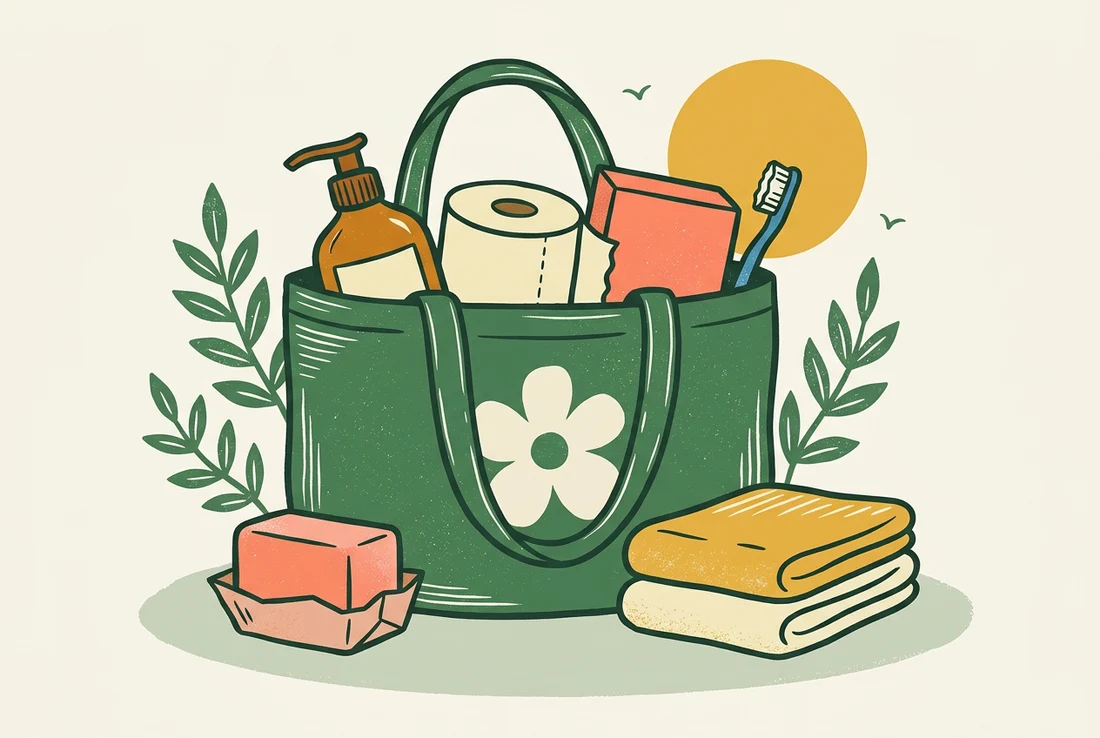
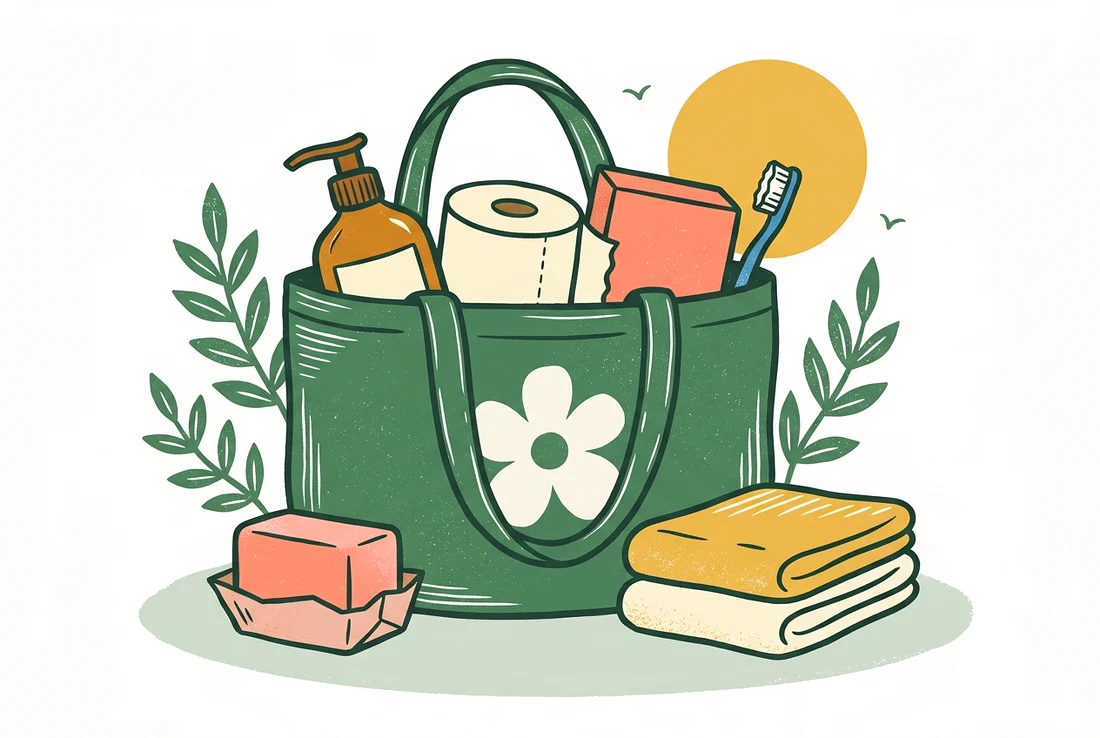
Add IRS guidance for holiday donors

diff --git a/app/globals.css b/app/globals.css
@@ -1,3 +1,4 @@
 @import 'tailwindcss';
+.taxguide{border-block:1px solid var(--border);padding:15px 0;font-size:15px;line-height:1.55}.taxguide summary{font-weight:bold;cursor:pointer}.taxguide p,.taxguide li{margin-top:10px}.taxguide ol{list-style:decimal;padding-left:20px}.taxguide a{text-decoration:underline;text-underline-offset:3px}
 .giving{background:#f9e6d2;border-bottom:1px solid #e2c9b3}.giftrow{display:flex;align-items:center;gap:17px;padding:14px 0}.giftrow>svg{color:#934d26}.giftrow>div{display:flex;align-items:center;gap:17px}.giftrow .kicker{color:#864b2b;font-size:10px;white-space:nowrap}.giftrow p{font-size:16px;font-weight:550;letter-spacing:-.3px}.giftrow button{display:flex;align-items:center;gap:9px;margin-left:auto;white-space:nowrap;font-size:14px;font-weight:bold;text-decoration:underline;text-underline-offset:4px}.givinglabel{display:block;font-size:14px;font-weight:bold;margin-bottom:7px}#need{width:100%;padding:12px;border-radius:6px;border:1px solid var(--border);background:#f4f5e9;margin-bottom:18px}.donateactions{display:flex;gap:18px;flex-wrap:wrap}.donateactions a:first-child{background:var(--ink);color:white;padding:10px 14px;border-radius:5px;text-decoration:none}@media(max-width:800px){.giftrow>div{display:block}.giftrow{gap:10px}.giftrow p{font-size:14px}}@media(max-width:480px){.giftrow>svg{display:none}.giftrow p{max-width:210px}.giftrow button{font-size:12px}}
 :root{--ink:#203f32;--paper:#faf8ef;--muted:#505b52;--border:#d5d7c9;--orange:#df854b;--white:#fffef9;color-scheme:light}*{box-sizing:border-box}body{margin:0;color:var(--ink);background:var(--white);font-family:Arial,Helvetica,sans-serif}a{color:inherit;text-decoration:none}button{cursor:pointer}a:focus-visible,button:focus-visible,input:focus-visible{outline:3px solid #ab5a25;outline-offset:4px}.wrap{max-width:1328px;width:89%;margin:auto}header{background:var(--paper);border-bottom:1px solid var(--border)}.bar{display:flex;align-items:center;gap:40px;height:78px}.brand,.helpline,nav,.eyebrow,.kicker,.primary,.zip,.cardlink,.sectionhead button,.more a,.result a,.localresult a{display:inline-flex;align-items:center}.brand{gap:11px;font-size:23px;font-weight:750;letter-spacing:-1.2px}.mark{display:grid;place-items:center;background:var(--ink);color:var(--paper);height:39px;width:39px;border-radius:11px}nav{gap:32px;margin-left:auto;font-size:14px;font-weight:550}nav a:hover,.more a:hover,.sectionhead button:hover{text-decoration:underline}.helpline{border:1px solid var(--ink);padding:9px 16px;border-radius:7px;gap:8px;font-size:14px;font-weight:bold}.hero{background:var(--paper);border-bottom:1px solid var(--border);overflow:hidden}.herogrid{display:grid;grid-template-columns:1.08fr 1fr;align-items:center;gap:10px;padding:54px 0 57px}.eyebrow,.kicker{font-weight:750;font-size:10px;letter-spacing:1.7px;gap:8px}.eyebrow{padding:7px 11px;border-radius:5px;background:#e8ecdd;letter-spacing:1.4px}.herocopy{position:relative;z-index:1}h1{font-size:clamp(50px,5.28vw,80px);font-weight:700;letter-spacing:-.065em;line-height:1.015;margin:22px 0 19px}.herocopy>p{font-size:18px;line-height:1.55;max-width:498px;color:var(--muted)}form{display:flex;gap:9px;margin-top:28px}.zip{gap:10px;border:1px solid #acb4a6;background:#fffef9;border-radius:7px;padding:0 13px;color:#647063;width:min(54%,246px)}input{min-width:0;width:100%;height:49px;color:var(--ink);font-size:15px}input::placeholder{color:#657064}button.primary{border-radius:7px;color:var(--white);background:var(--ink);padding:0 20px;gap:14px;font-size:14px;font-weight:600}.primary:hover{background:#355b42}.heroart{mix-blend-mode:multiply;margin:0 -3% 0 -1%}.heroart img{width:100%;height:auto;mask-image:linear-gradient(to right,transparent,black 4%,black 96%,transparent),linear-gradient(to bottom,transparent,black 4%,black 96%,transparent);mask-composite:intersect}.directory{padding:40px 0 46px}.kicker i{width:24px;height:2px;background:var(--orange)}.sectionhead{display:flex;align-items:center;justify-content:space-between;margin:8px 0 24px}h2{font-weight:670;font-size:clamp(29px,2.7vw,42px);line-height:1.12;letter-spacing:-.055em}.sectionhead button,.more a,.result a,.localresult a{gap:8px;font-weight:600;font-size:14px}.cards{display:grid;grid-template-columns:repeat(4,1fr);gap:17px}.category{text-align:left;border:1px solid #bdc9b8;border-radius:12px;padding:22px 22px 20px;display:flex;align-items:flex-start;flex-direction:column;transition:transform .16s,box-shadow .16s}.category:hover{transform:translateY(-3px);box-shadow:0 4px 0 #203f3215}.tone0{background:#ecf1e5}.tone1{background:#f8eadd;border-color:#e2c6ac}.tone2{background:#eaf0f4;border-color:#c1d0d7}.tone3{background:#f7efda;border-color:#ddcfaa}.category img{width:76px;height:65px;object-fit:contain;mix-blend-mode:multiply;margin-bottom:16px}.category h3,.result h3{font-size:22px;font-weight:650;line-height:1.18;letter-spacing:-.9px}.category p,.intro,.result p,.localresult p,.more p{font-size:15px;line-height:1.5;color:var(--muted);margin:9px 0 20px}.cardlink{margin-top:auto;gap:7px;font-weight:650;font-size:13px}.more{display:grid;grid-template-columns:1fr 1fr;border-top:1px solid var(--border);padding:42px 0;gap:8%}.more h2{margin-top:12px;font-size:28px}.more a,.result a,.localresult a{text-decoration:underline;text-underline-offset:4px}footer{border-top:1px solid var(--border);padding:22px 0;display:flex;justify-content:space-between;font-weight:650}footer span{font-weight:400;font-size:13px}dialog{position:fixed;inset:0;margin:auto;width:min(580px,92%);max-height:85vh;background:var(--white);color:var(--ink);border:1px solid var(--border);border-radius:14px;box-shadow:0 12px 70px #172a2333}dialog::backdrop{background:#14282088}body:has(dialog[open]){overflow:hidden}.dialoginner{padding:34px;position:relative}.dialoginner h2{margin-top:12px}.close{position:absolute;right:17px;top:17px;border:1px solid var(--border);padding:7px;border-radius:50%}.result{border-top:1px solid var(--border);padding:18px 0}.result h3{margin-top:5px}.result p,.localresult p{margin-bottom:10px}.localresult{display:flex;gap:14px;background:#ebefdf;padding:18px;border-radius:8px;margin-top:18px}.localresult svg{flex-shrink:0}@media(min-width:1450px){.herogrid{padding:68px 0}.category{padding:26px}}@media(max-width:900px){.wrap{width:91%}.bar{gap:18px}nav{gap:18px}.herogrid{grid-template-columns:1.15fr 1fr;gap:0}.herocopy>p{font-size:16px}.cards{grid-template-columns:repeat(2,1fr)}h1{font-size:clamp(43px,6vw,57px)}form{gap:7px}button.primary{padding:0 12px;gap:6px}}@media(max-width:650px){.bar{height:auto;padding:14px 0 10px;flex-wrap:wrap;justify-content:space-between;gap:12px}.brand{font-size:21px}.mark{height:33px;width:33px}nav{order:3;width:100%;justify-content:center;gap:34px;font-size:13px;border-top:1px solid var(--border);padding-top:10px}.helpline{font-size:13px}.herogrid{grid-template-columns:1fr;padding:32px 0 17px;gap:14px}.heroart{width:85%;max-width:350px;margin:auto}.herocopy>p{max-width:450px}h1{font-size:clamp(43px,10.5vw,64px);margin:16px 0 13px}form{margin-top:19px}.zip{flex:1}.directory{padding-top:27px}.sectionhead{gap:12px;margin-bottom:17px}.sectionhead h2{font-size:27px}.sectionhead button{font-size:12px;gap:3px}.cards{gap:10px}.category{padding:16px 13px}.category img{width:64px;height:55px}.category h3{font-size:19px}.category p{font-size:14px}.cardlink{font-size:12px}.more{grid-template-columns:1fr;gap:30px}.dialoginner{padding:25px}.more h2{font-size:25px}footer{gap:15px;align-items:center}footer span{max-width:150px;text-align:right}}

diff --git a/components/holiday-giving.tsx b/components/holiday-giving.tsx
@@ -8,4 +8,4 @@ const giving = [
  ['Giving the Basics','Laundry soap and paper goods','https://givingthebasics.org/donate-kc/','https://givingthebasics.org/product-donations/'],
  ['Feeding Pets of the Homeless','Pet food and supplies','https://petsofthehomeless.org/?form=donate2026','https://petsofthehomeless.org/get-help/find-locations/']
 ]
-export function HolidayGiving(){const dialog=useRef<HTMLDialogElement>(null);const [index,select]=useState(0);const org=giving[index];return <><aside className="giving"><div className="wrap giftrow"><Gift size={29} strokeWidth={1.5}/><div><span className="kicker">HOLIDAY GIVING</span><p>Give the essentials food drives often miss.</p></div><button onClick={()=>dialog.current?.showModal()}>Donate essentials <ArrowRight size={16}/></button></div></aside><dialog ref={dialog} aria-labelledby="giving-title" onClick={e=>{if(e.target===e.currentTarget)dialog.current?.close()}}><div className="dialoginner"><button className="close" aria-label="Close giving guide" onClick={()=>dialog.current?.close()}><X size={20}/></button><span className="kicker">HOLIDAY GIVING GUIDE</span><h2 id="giving-title">Give everyday essentials</h2><p className="intro">Choose a need to support. Your gift goes directly to the organization you choose, not through this site.</p><label className="givinglabel" htmlFor="need">What would you like to support?</label><select id="need" value={index} onChange={e=>select(Number(e.target.value))}>{categories.map((c,i)=><option value={i} key={c.name}>{c.name}</option>)}</select><article className="result" aria-live="polite"><span className="kicker">{org[1]}</span><h3>{org[0]}</h3><p>Support this organization’s work with a financial gift, or check how to contribute supplies.</p><div className="donateactions"><a href={org[2]}>Give money <ArrowUpRight size={15}/></a><a href={org[3]}>Give supplies <ArrowUpRight size={15}/></a></div></article><div className="localresult"><div><strong>Planning a holiday supply drive?</strong><p>Ask the receiving organization which items and sizes it needs most, whether packages must be unopened, and when it accepts drop-offs.</p></div></div></div></dialog></>}
+export function HolidayGiving(){const dialog=useRef<HTMLDialogElement>(null);const [index,select]=useState(0);const org=giving[index];return <><aside className="giving"><div className="wrap giftrow"><Gift size={29} strokeWidth={1.5}/><div><span className="kicker">HOLIDAY GIVING</span><p>Give the essentials food drives often miss.</p></div><button onClick={()=>dialog.current?.showModal()}>Donate essentials <ArrowRight size={16}/></button></div></aside><dialog ref={dialog} aria-labelledby="giving-title" onClick={e=>{if(e.target===e.currentTarget)dialog.current?.close()}}><div className="dialoginner"><button className="close" aria-label="Close giving guide" onClick={()=>dialog.current?.close()}><X size={20}/></button><span className="kicker">HOLIDAY GIVING GUIDE</span><h2 id="giving-title">Give everyday essentials</h2><p className="intro">Choose a need to support. Your gift goes directly to the organization you choose, not through this site.</p><label className="givinglabel" htmlFor="need">What would you like to support?</label><select id="need" value={index} onChange={e=>select(Number(e.target.value))}>{categories.map((c,i)=><option value={i} key={c.name}>{c.name}</option>)}</select><article className="result" aria-live="polite"><span className="kicker">{org[1]}</span><h3>{org[0]}</h3><p>Support this organization’s work with a financial gift, or check how to contribute supplies.</p><div className="donateactions"><a href={org[2]}>Give money <ArrowUpRight size={15}/></a><a href={org[3]}>Give supplies <ArrowUpRight size={15}/></a></div></article><details className="taxguide"><summary>Can I deduct my donation?</summary><p>A qualifying gift may reduce your taxable income. It isn’t a dollar-for-dollar refund. The rules depend on your tax year, how you file, and whether you give money or supplies.</p><ol><li>Before giving, <a href="https://www.irs.gov/charities-non-profits/tax-exempt-organization-search">check the receiving charity with the IRS</a>.</li><li>Ask for a dated receipt from the charity. For supplies, keep a list of items and records supporting their fair market value.</li><li>Use <a href="https://www.irs.gov/publications/p526">IRS Publication 526</a> for deduction limits, recordkeeping requirements, and filing instructions for your tax year.</li></ol></details><div className="localresult"><div><strong>Planning a holiday supply drive?</strong><p>Ask the receiving organization which items and sizes it needs most, whether packages must be unopened, and when it accepts drop-offs.</p></div></div></div></dialog></>}
